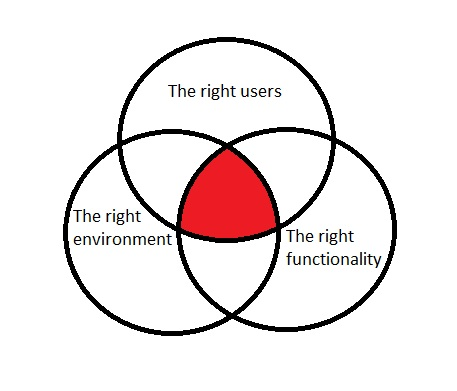
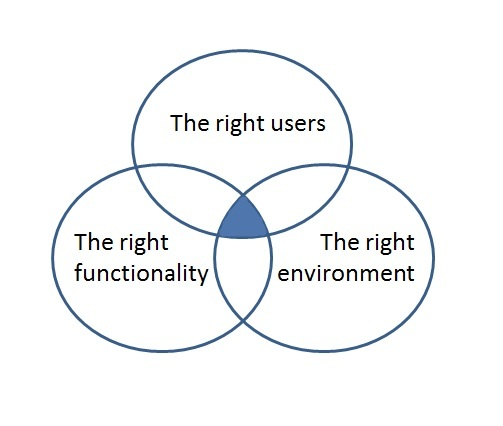
Fixed details in usability. Added figure

Changed region(s): [[0.0919, 0.0921, 0.8884, 0.8593]]

diff --git a/usability.tex b/usability.tex
@@ -21,11 +21,11 @@ There is no definitive solution on how to make a good and user friendly system, 
 \begin{figure} [ht!]
 \centering
 \includegraphics[scale=0.8]{contextOfUse.jpg}
-\caption{Context of Use}
+\caption{Context of Use, modified from \cite{contextofusefigure}}
 \label{contextofuse}
 \end{figure}  
   
-The work for an interactive system designer is as mentioned to combine the sense of what attracts users with system functionality. To help interface designers make successful systems, a theory called the four pillars of design has been developed. This theory does not guaranteed brilliant systems, but it could be helpful along the way in making good, successful systems. The four pillars of design consist of “user-interface requirements”, “guidelines, documents and processes”, “user-interface software tools” and “expert reviews and usability testing” \cite{mmi}.    
+The work for an interactive system designer is as mentioned to combine the sense of what attracts users with system functionality. To help interface designers make successful systems, a theory called the four pillars of design has been developed. This theory does not guaranteed brilliant systems, but it could be helpful along the way in the development process. The four pillars of design consist of "user-interface requirements", "guidelines documents and processes", "user-interface software tools" and "expert reviews and usability testing" \cite{mmi}.    
 
 \emph{User-interface requirements (Ethnographic observations)}\\
 A major key to success when developing a system is connected to specifying the user requirements, and how well these requirements are defined and understood.  The way to specify requirements differs from organisation to organisation, but what the final results should always include the same; Who should use the system, where should it be used and what should it be used for. In addition to this, functional requirements (system requirements like hardware,  software etc.) and non-functional requirements (requirements saying something about the user interface, like functionality, input devices, etc.) should be specified and decided \cite{mmi}.
@@ -45,13 +45,12 @@ It is important for the interactive system designer to generate a document that 
 The procedure of creating these guidelines should be done by including different parts of an organisation. It should be a social process, this to gain visibility. It is important that the guidelines are flexible, so that they can adapt to changes in needs and experiences \cite{mmi}. 
 
 \emph{User-interface software tools (Algorithms and prototypes)}\\
-In the early stages of development, it is difficult for users to picture what the final result will look like. This may lead to situations where the system design is finished and the users are left with the feeling of not being satisfied. This would be a problem, because of the high cost associated to make changes in implemented systems. One way to address this problem is to let the users get a realistic impression of the final result early in the development process. This could be done by presenting different types of prototypes. These prototypes could be simple sketches on paper, a display proposal or a presentation with use of PowerPoint. 
-When deciding on which development environment to use, there is a number of good products to choose from. Most of them are easy to use, and offers good features. The important part is for the developers to choose the development environment that is most suitable for the product they are going to make, due to performance, cost, and how easy it is to use and learn \cite{mmi}.
+In the early stages of development, it is difficult for users to picture what the final result will look like. This may lead to situations where the system design is finished and the users are left with the feeling of not being satisfied. This would be a problem, because of the high cost associated to make changes in implemented systems. One way to address this problem is to let the users get a realistic impression of the final result early in the development process. This could be done by presenting different types of prototypes. These prototypes could be simple sketches on paper, a display proposal or a presentation with use of PowerPoint. When deciding on which development environment to use, there is a number of good products to choose from. Most of them are easy to use, and offers good features. The important part is for the developers to choose the development environment that is most suitable for the product they are going to make, due to performance, cost, and how easy it is to use and learn \cite{mmi}.
 	
 \emph{Expert reviews and usability testing (Controlled experiments)}\\
 To be able to launch a successful system, it is important with testing along the way in the development process. System testing could involve both experts and the intended users \cite{mmi}. 
 
-There have been developed a list of eight principles for how to make a good interface design, called "The Eight Golden Rules" . This set of guidelines has been developed over three decades with research and experiences. There does not exist a solution for how to make good and user-friendly interface design, but these "Eight Golden Rules" can serve as a starting point and a helpful design guide if they are used correctly. When using the "Eight Golden Rules", it is important that designers refines and implements the principles into the environment they are working in. 
+In order for a system to become successful is has to be easy to interact with. There have been developed a list of eight principles for how to make a good interface design, called "The Eight Golden Rules". This set of guidelines has been developed over three decades with research and experiences. There does not exist a solution for how to make good and user-friendly interface design, but these "Eight Golden Rules" can serve as a starting point and a helpful design guide if they are used correctly. When using the "Eight Golden Rules", it is important that designers refines and implements the principles into the environment they are working in. 
 
 We will now present the "Eight Golden Rules".
 
@@ -66,7 +65,7 @@ We will now present the "Eight Golden Rules".
 \item \emph{Reduce short-term memory load:} Designers should reduce the need for memorising information and how actions should be performed. The focus should be on designing an interface with visible information and intuitive actions.
 \end{itemize}
 
-These "Eight Golden Rules" is far from being the only guide for designing a user interface. There have been done a huge amount of research in the area of usability, where Jacob Nielsen is one of the participants \cite{nielsen2005ten}. Nielsen is a Ph.D from Denmark, and an expert in human-computer interaction. Nielsen has established a movement for how to easy improve user interfaces, he has invented several methods for how to achieve good usability, and he has published a great amount of articles and books with usability as main subject \cite{JNielsen}. As a part of his work Nielsen has created a list of ten usability heuristics, which can be used as general principles when designing a user interface\cite{nielsen2005ten}. 
+These "Eight Golden Rules" is far from being the only guide for how to design a user interface. There have been done a huge amount of research in the area of usability, where Jacob Nielsen is one of the participants \cite{nielsen2005ten}. Nielsen is a Ph.D from Denmark, and an expert in human-computer interaction. He has established a movement for how to easy improve user interfaces, invented several methods for how to achieve good usability, and he has also published a great amount of articles and books with usability as main subject \cite{JNielsen}. As a part of his work Nielsen has created a list of ten usability heuristics, which can be used as general principles when designing a user interface\cite{nielsen2005ten}. 
 
 \section{Heuristics}
 It is clear from this chapter that it is critical to involve the user in the testing of technology systems, to be able to evaluate the playability and the user friendliness. This is because it is impossible for the designer to fully understand or predict the users actual behaviour with a game.  Heuristics are designed guidelines made to assess how good software design is, and it has become a widely used method for usability evaluation in software development. It is important to develop software interfaces that are easy to understand, learn and conduct. With the use of heuristic, this can easily be evaluated. Heuristic evaluation method allows for insight into users' point of view, even before there is an actual system, and is actually best suited in an early phase, before spending a lot of money on expensive prototypes. When prototypes are made, the user needs to be involved to discover problems if they appear. This is also a very important part of the development, because it is critical to understand the interaction between the player and the game \cite{desurvire}. 
